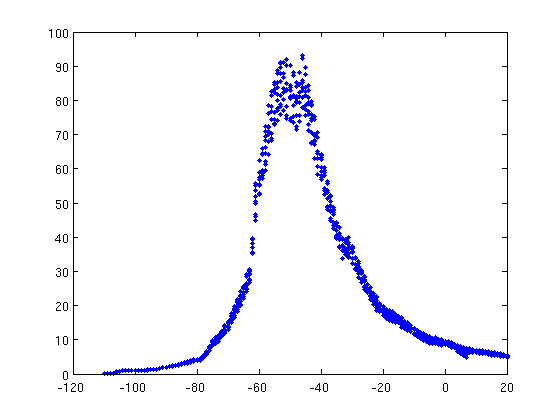
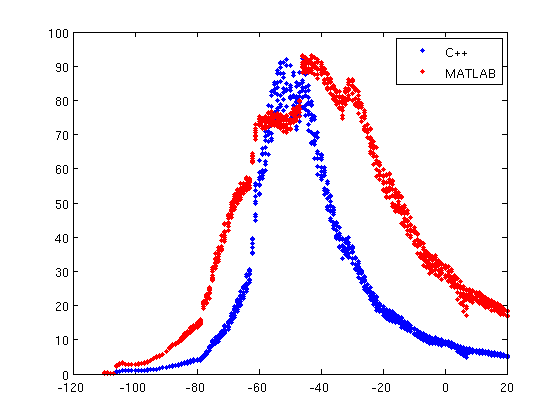
GRAS result - comparison with MATLAB

diff --git a/XP005-focal-range/README.md b/XP005-focal-range/README.md
@@ -84,7 +84,7 @@ Communications, IEEE Transactions on, 43(12):2959–2965, 1995
         FM = mean2(FM);
 </pre>
 
-Implemented in FireSight. Result on the above input data shown in the following image.
+Implemented in FireSight. Results on the above input data shown in the following image, not to scale.
 <img src="img/gras_cpp.png">
 
 ### LAPE - Energy of laplacian [Subbarao92a]
